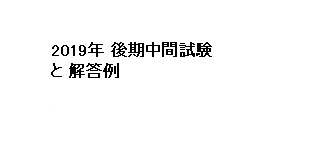
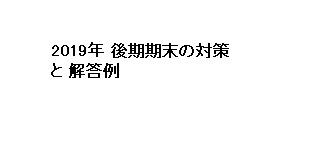
M1対策プリンの追加()

Changed region(s): [[0.3333, 0.2381, 0.697, 0.3571]]

diff --git a/class2019/jugyo200127.html b/class2019/jugyo200127.html
@@ -9,9 +9,9 @@
 <p><font size="7">&emsp;数学１(M1)のための教材</font></br>
 &emsp;&emsp;更新：2020年1月24日</font></p>
 
-<!-- 2019年後期中間試験の解答例 -->
+<!-- 2019年後期期末試験の対策 -->
 <table border="1" height="30" align="left">
-    <tr><th colspan="2" align="left"><font size="5">&emsp;19後中(数1)解答例</font></th></tr>
+    <tr><th colspan="2" align="left"><font size="5">&emsp;19後期期末(数1)の対策</font></th></tr>
     <tr><td rowspan="20"><a href="jugyo200127/19test3(su1)1m.jpg"><img src="jugyo200127/19test3(su1)1m.jpg" alt=JPG width="240"></a></td></tr>
     <tr><td align="center" width="80"><a href="jugyo200127/19test3(su1)1m.pdf">pdf</a></td></tr>
     <tr><td align="center" width="80"><a href="jugyo200127/19test3(su1)1m.tex">tex</a></td></tr>
